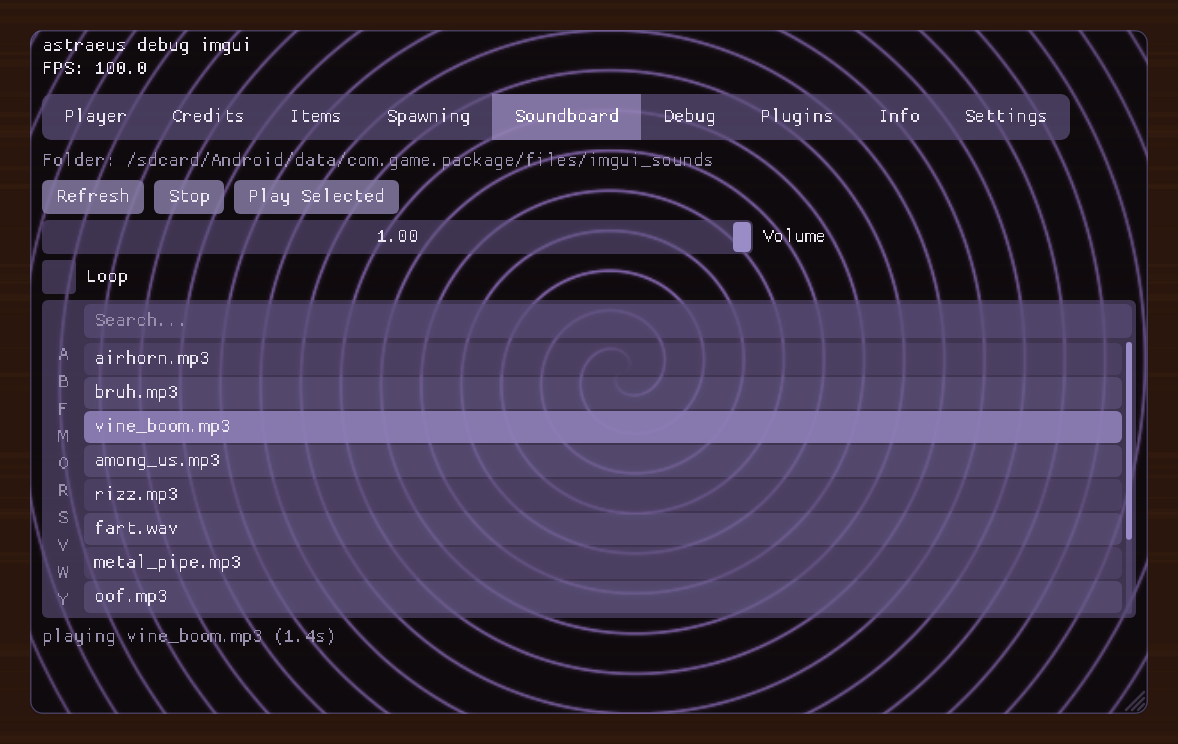
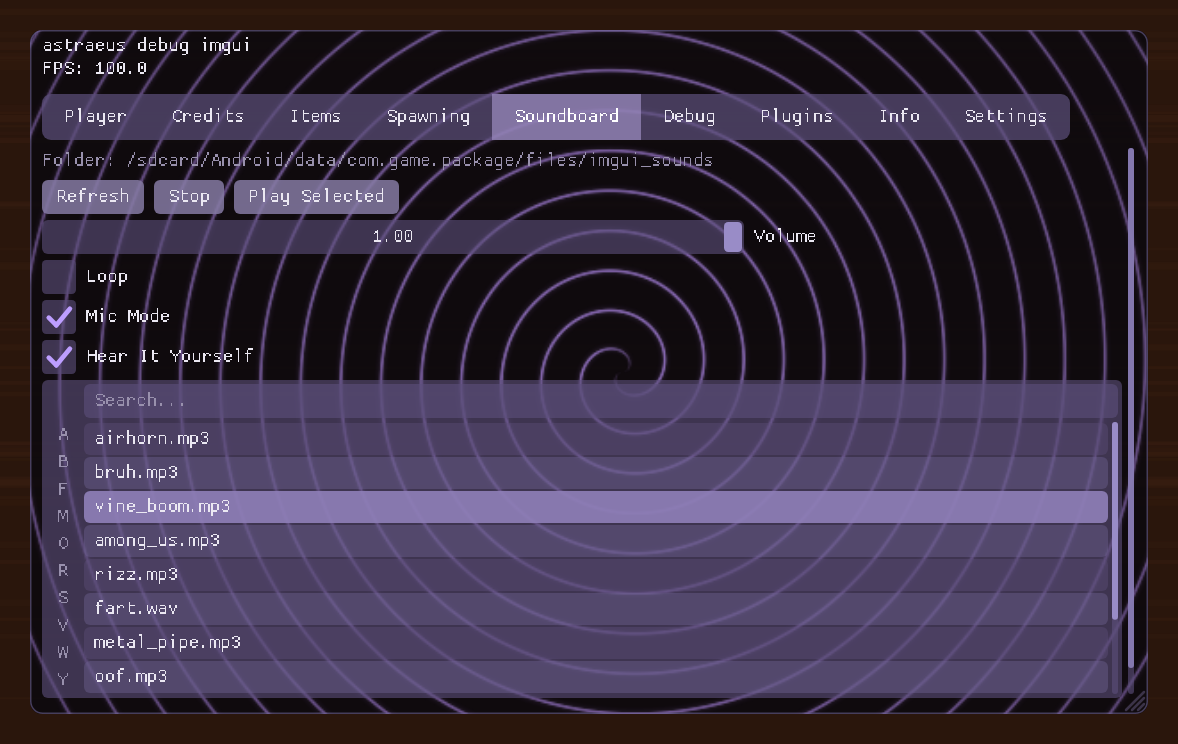
Soundboard mic mode (Photon Voice)
When the game has Photon.Voice.Unity.Recorder, a Mic Mode toggle feeds the
sound into your own recorder(s) (SourceType = AudioClip, voice detection
off, transmit on, RestartRecording) so the lobby hears it; Hear It
Yourself keeps local playback too. Your microphone is restored (source,
clip, loop and your voice-detection setting) when the clip ends, on Stop,
or when mic mode is switched off. Other voice systems show that mic mode
isn't available. REPL: sb.mic(true/false). Both builds.

Claude-Session: https://claude.ai/code/session_01CSWsGaxVVQEfJqQLYJMYRF

Changed region(s): [[0.0306, 0.2164, 0.9779, 0.9583], [0.6112, 0.2782, 0.7029, 0.3401], [0.3362, 0.3091, 0.3667, 0.3401]]

diff --git a/fridaimgui.ts b/fridaimgui.ts
@@ -3216,7 +3216,7 @@ Il2Cpp.perform(() => {
 	// if a game stripped that loader, .wav still works via a small decoder here. Clips are cached.
 	let soundDir = "";
 	const SB = { files: [] as string[], sel: ref(0), volume: ref(1.0), loop: ref(false), scanned: false,
-		status: "", playing: "", mkdir: false };
+		status: "", playing: "", mkdir: false, mic: ref(false), hearSelf: ref(true) };
 	const sbClips = new Map<string, any>();
 	let sbPending: { file: string; req: any; dh: any; started: number } | null = null;
 	let sbSrc: any = null, sbGo: any = null;
@@ -3226,6 +3226,54 @@ Il2Cpp.perform(() => {
 	const UWRMediaCls = findClassAnywhere("UnityEngine.Networking.UnityWebRequestMultimedia");
 	const DHAudioCls = findClassAnywhere("UnityEngine.Networking.DownloadHandlerAudioClip");
 	const AUDIO_TYPE: { [ext: string]: number } = { mp3: 13, ogg: 14, wav: 20 };
+
+	// ── Mic mode: Photon Voice's Recorder can take an AudioClip as its source instead of the
+	// microphone, so the sound goes out over voice chat. Games on other voice systems (Vivox,
+	// Normcore, custom) don't have this and mic mode says so. Your real mic comes back when the
+	// sound ends, on Stop, or when mic mode is switched off.
+	const RecorderCls = findClassAnywhere("Photon.Voice.Unity.Recorder");
+	const mic = { recs: [] as any[], at: 0, live: false, until: 0, vad: new Map<any, any>() };
+	function micRecorders(): any[] {
+		const now = Date.now();
+		if (now - mic.at < 3000 && mic.recs.every(r => alive(r))) return mic.recs;
+		mic.at = now;
+		mic.recs = objectsOf(RecorderCls).filter(r => !isRemote(r)).map(keep);
+		return mic.recs;
+	}
+	function micRestart(r: any) {
+		if (call(r, "RestartRecording") === null) call(r, "RestartRecording", true);
+	}
+	function micFeed(clip: any, len: number): number {
+		if (!RecorderCls) return 0;
+		const recs = micRecorders();
+		for (const r of recs) {
+			if (!mic.vad.has(r)) mic.vad.set(r, call(r, "get_VoiceDetection"));
+			call(r, "set_SourceType", 1);                 // 1 = AudioClip
+			call(r, "set_AudioClip", clip);
+			call(r, "set_LoopAudioClip", SB.loop.v);
+			call(r, "set_VoiceDetection", false);         // don't gate quiet parts of the sound
+			call(r, "set_TransmitEnabled", true);
+			call(r, "set_RecordingEnabled", true);
+			micRestart(r);
+		}
+		mic.live = recs.length > 0;
+		mic.until = mic.live && !SB.loop.v && len > 0 ? Date.now() + len * 1000 + 250 : 0;
+		return recs.length;
+	}
+	function micRestore() {
+		if (!mic.live) return;
+		mic.live = false; mic.until = 0;
+		for (const r of mic.recs) {
+			if (!alive(r)) continue;
+			call(r, "set_SourceType", 0);                 // 0 = Microphone
+			call(r, "set_AudioClip", null);
+			call(r, "set_LoopAudioClip", false);
+			const vad = mic.vad.get(r);
+			if (vad !== undefined && vad !== null) call(r, "set_VoiceDetection", !!vad);
+			micRestart(r);
+		}
+		mic.vad.clear();
+	}
 
 	function sbScan() {
 		SB.scanned = true;
@@ -3252,20 +3300,29 @@ Il2Cpp.perform(() => {
 		} catch (e) { errOnce("soundboard source", e); return null; }
 	}
 	function sbPlayClip(file: string, clip: any) {
-		const src = sbSource();
-		if (!src) { SB.status = "no AudioSource in this game"; return; }
-		call(src, "Stop");
-		call(src, "set_clip", clip);
-		call(src, "set_volume", SB.volume.v);
-		call(src, "set_loop", SB.loop.v);
-		call(src, "Play");
-		SB.playing = file;
 		let len = 0;
 		try { len = Number(clip.method("get_length", 0).invoke()); } catch {}
-		SB.status = "playing " + file + (len > 0 ? " (" + len.toFixed(1) + "s)" : "");
+		const src = sbSource();
+		if (src) call(src, "Stop");
+		const local = !SB.mic.v || SB.hearSelf.v;
+		if (local) {
+			if (!src) { SB.status = "no AudioSource in this game"; return; }
+			call(src, "set_clip", clip);
+			call(src, "set_volume", SB.volume.v);
+			call(src, "set_loop", SB.loop.v);
+			call(src, "Play");
+		}
+		let where = "";
+		if (SB.mic.v) {
+			const n = micFeed(clip, len);
+			where = n ? " - on voice chat" : " - no voice recorder found (not in a lobby?), local only";
+		} else micRestore();
+		SB.playing = file;
+		SB.status = "playing " + file + (len > 0 ? " (" + len.toFixed(1) + "s)" : "") + where;
 	}
 	function sbStop() {
 		if (sbSrc && alive(sbSrc)) call(sbSrc, "Stop");
+		micRestore();
 		sbPending = null; SB.playing = ""; SB.status = "stopped";
 	}
 	function sbPlay(file: string) {
@@ -3362,12 +3419,16 @@ Il2Cpp.perform(() => {
 		if (button("Play Selected") && SB.files.length) sbPlay(SB.files[SB.sel.v]);
 		if (sliderFloat("Volume", SB.volume, 0, 1, 2) && sbSrc && alive(sbSrc)) call(sbSrc, "set_volume", SB.volume.v);
 		if (checkbox("Loop", SB.loop) && sbSrc && alive(sbSrc)) call(sbSrc, "set_loop", SB.loop.v);
+		if (RecorderCls) {
+			if (checkbox("Mic Mode", SB.mic, "others hear it over voice chat") && !SB.mic.v) micRestore();
+			if (SB.mic.v) checkbox("Hear It Yourself", SB.hearSelf);
+		} else text("Mic Mode: this game doesn't use Photon Voice, so sounds are local only.", C.TextDisabled);
 		if (SB.files.length) { if (listBox("##sounds", SB.sel, SB.files, 8)) sbPlay(SB.files[SB.sel.v]); }
 		else text("No sounds yet - copy .mp3 files into the folder above, then Refresh.", C.TextDisabled);
 		if (SB.status) text(SB.status, C.TextDisabled);
 		if (!AudioSourceCls) text("This game has no AudioSource class - the soundboard can't play here.", [1, 0.45, 0.5, 1]);
 	}
-	(globalThis as any).sb = { play: (f: string) => sbPlay(f), stop: sbStop, list: () => { sbScan(); return SB.files; }, dir: () => soundDir };
+	(globalThis as any).sb = { play: (f: string) => sbPlay(f), stop: sbStop, mic: (on: boolean = !SB.mic.v) => { SB.mic.v = on; if (!on) micRestore(); return on; }, list: () => { sbScan(); return SB.files; }, dir: () => soundDir };
 
 	function debugTab() {
 		if (collapsingHeader("Runtime", true)) {
@@ -3505,6 +3566,7 @@ Il2Cpp.perform(() => {
 		if (!greeted) { greeted = true; notify(MENU_TITLE + " loaded"); }
 		try { onUpdate(); } catch (e) { errOnce("onUpdate", e); }
 		if (sbPending) { try { sbPoll(); } catch (e) { errOnce("soundboard", e); sbPending = null; } }
+		if (mic.until && Date.now() > mic.until) { try { micRestore(); } catch (e) { errOnce("mic restore", e); } }
 		try { pluginsFrame(); } catch (e) { errOnce("plugins", e); }
 
 		const now = Date.now(), dt = Math.min(0.1, Math.max(0.001, (now - lastTickMs) / 1000));

diff --git a/fridaimgui_ncs.ts b/fridaimgui_ncs.ts
@@ -3369,7 +3369,7 @@ Il2Cpp.perform(() => {
 	// if a game stripped that loader, .wav still works via a small decoder here. Clips are cached.
 	let soundDir = "";
 	const SB = { files: [] as string[], sel: ref(0), volume: ref(1.0), loop: ref(false), scanned: false,
-		status: "", playing: "", mkdir: false };
+		status: "", playing: "", mkdir: false, mic: ref(false), hearSelf: ref(true) };
 	const sbClips = new Map<string, any>();
 	let sbPending: { file: string; req: any; dh: any; started: number } | null = null;
 	let sbSrc: any = null, sbGo: any = null;
@@ -3379,6 +3379,54 @@ Il2Cpp.perform(() => {
 	const UWRMediaCls = findClassAnywhere("UnityEngine.Networking.UnityWebRequestMultimedia");
 	const DHAudioCls = findClassAnywhere("UnityEngine.Networking.DownloadHandlerAudioClip");
 	const AUDIO_TYPE: { [ext: string]: number } = { mp3: 13, ogg: 14, wav: 20 };
+
+	// ── Mic mode: Photon Voice's Recorder can take an AudioClip as its source instead of the
+	// microphone, so the sound goes out over voice chat. Games on other voice systems (Vivox,
+	// Normcore, custom) don't have this and mic mode says so. Your real mic comes back when the
+	// sound ends, on Stop, or when mic mode is switched off.
+	const RecorderCls = findClassAnywhere("Photon.Voice.Unity.Recorder");
+	const mic = { recs: [] as any[], at: 0, live: false, until: 0, vad: new Map<any, any>() };
+	function micRecorders(): any[] {
+		const now = Date.now();
+		if (now - mic.at < 3000 && mic.recs.every(r => alive(r))) return mic.recs;
+		mic.at = now;
+		mic.recs = objectsOf(RecorderCls).filter(r => !isRemote(r)).map(keep);
+		return mic.recs;
+	}
+	function micRestart(r: any) {
+		if (call(r, "RestartRecording") === null) call(r, "RestartRecording", true);
+	}
+	function micFeed(clip: any, len: number): number {
+		if (!RecorderCls) return 0;
+		const recs = micRecorders();
+		for (const r of recs) {
+			if (!mic.vad.has(r)) mic.vad.set(r, call(r, "get_VoiceDetection"));
+			call(r, "set_SourceType", 1);                 // 1 = AudioClip
+			call(r, "set_AudioClip", clip);
+			call(r, "set_LoopAudioClip", SB.loop.v);
+			call(r, "set_VoiceDetection", false);         // don't gate quiet parts of the sound
+			call(r, "set_TransmitEnabled", true);
+			call(r, "set_RecordingEnabled", true);
+			micRestart(r);
+		}
+		mic.live = recs.length > 0;
+		mic.until = mic.live && !SB.loop.v && len > 0 ? Date.now() + len * 1000 + 250 : 0;
+		return recs.length;
+	}
+	function micRestore() {
+		if (!mic.live) return;
+		mic.live = false; mic.until = 0;
+		for (const r of mic.recs) {
+			if (!alive(r)) continue;
+			call(r, "set_SourceType", 0);                 // 0 = Microphone
+			call(r, "set_AudioClip", null);
+			call(r, "set_LoopAudioClip", false);
+			const vad = mic.vad.get(r);
+			if (vad !== undefined && vad !== null) call(r, "set_VoiceDetection", !!vad);
+			micRestart(r);
+		}
+		mic.vad.clear();
+	}
 
 	function sbScan() {
 		SB.scanned = true;
@@ -3405,20 +3453,29 @@ Il2Cpp.perform(() => {
 		} catch (e) { errOnce("soundboard source", e); return null; }
 	}
 	function sbPlayClip(file: string, clip: any) {
-		const src = sbSource();
-		if (!src) { SB.status = "no AudioSource in this game"; return; }
-		call(src, "Stop");
-		call(src, "set_clip", clip);
-		call(src, "set_volume", SB.volume.v);
-		call(src, "set_loop", SB.loop.v);
-		call(src, "Play");
-		SB.playing = file;
 		let len = 0;
 		try { len = Number(clip.method("get_length", 0).invoke()); } catch {}
-		SB.status = "playing " + file + (len > 0 ? " (" + len.toFixed(1) + "s)" : "");
+		const src = sbSource();
+		if (src) call(src, "Stop");
+		const local = !SB.mic.v || SB.hearSelf.v;
+		if (local) {
+			if (!src) { SB.status = "no AudioSource in this game"; return; }
+			call(src, "set_clip", clip);
+			call(src, "set_volume", SB.volume.v);
+			call(src, "set_loop", SB.loop.v);
+			call(src, "Play");
+		}
+		let where = "";
+		if (SB.mic.v) {
+			const n = micFeed(clip, len);
+			where = n ? " - on voice chat" : " - no voice recorder found (not in a lobby?), local only";
+		} else micRestore();
+		SB.playing = file;
+		SB.status = "playing " + file + (len > 0 ? " (" + len.toFixed(1) + "s)" : "") + where;
 	}
 	function sbStop() {
 		if (sbSrc && alive(sbSrc)) call(sbSrc, "Stop");
+		micRestore();
 		sbPending = null; SB.playing = ""; SB.status = "stopped";
 	}
 	function sbPlay(file: string) {
@@ -3515,12 +3572,16 @@ Il2Cpp.perform(() => {
 		if (button("Play Selected") && SB.files.length) sbPlay(SB.files[SB.sel.v]);
 		if (sliderFloat("Volume", SB.volume, 0, 1, 2) && sbSrc && alive(sbSrc)) call(sbSrc, "set_volume", SB.volume.v);
 		if (checkbox("Loop", SB.loop) && sbSrc && alive(sbSrc)) call(sbSrc, "set_loop", SB.loop.v);
+		if (RecorderCls) {
+			if (checkbox("Mic Mode", SB.mic, "others hear it over voice chat") && !SB.mic.v) micRestore();
+			if (SB.mic.v) checkbox("Hear It Yourself", SB.hearSelf);
+		} else text("Mic Mode: this game doesn't use Photon Voice, so sounds are local only.", C.TextDisabled);
 		if (SB.files.length) { if (listBox("##sounds", SB.sel, SB.files, 8)) sbPlay(SB.files[SB.sel.v]); }
 		else text("No sounds yet - copy .mp3 files into the folder above, then Refresh.", C.TextDisabled);
 		if (SB.status) text(SB.status, C.TextDisabled);
 		if (!AudioSourceCls) text("This game has no AudioSource class - the soundboard can't play here.", [1, 0.45, 0.5, 1]);
 	}
-	(globalThis as any).sb = { play: (f: string) => sbPlay(f), stop: sbStop, list: () => { sbScan(); return SB.files; }, dir: () => soundDir };
+	(globalThis as any).sb = { play: (f: string) => sbPlay(f), stop: sbStop, mic: (on: boolean = !SB.mic.v) => { SB.mic.v = on; if (!on) micRestore(); return on; }, list: () => { sbScan(); return SB.files; }, dir: () => soundDir };
 
 	function debugTab() {
 		if (collapsingHeader("Runtime", true)) {
@@ -3659,6 +3720,7 @@ Il2Cpp.perform(() => {
 		try { onUpdate(); } catch (e) { errOnce("onUpdate", e); }
 		try { ncsTick(); } catch (e) { errOnce("NCS mods", e); }
 		if (sbPending) { try { sbPoll(); } catch (e) { errOnce("soundboard", e); sbPending = null; } }
+		if (mic.until && Date.now() > mic.until) { try { micRestore(); } catch (e) { errOnce("mic restore", e); } }
 		try { pluginsFrame(); } catch (e) { errOnce("plugins", e); }
 
 		const now = Date.now(), dt = Math.min(0.1, Math.max(0.001, (now - lastTickMs) / 1000));
